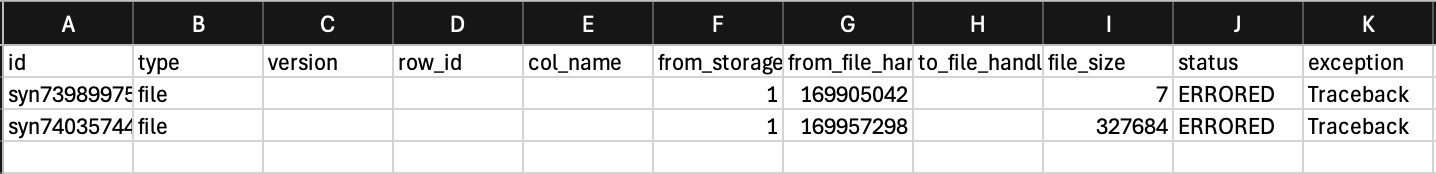
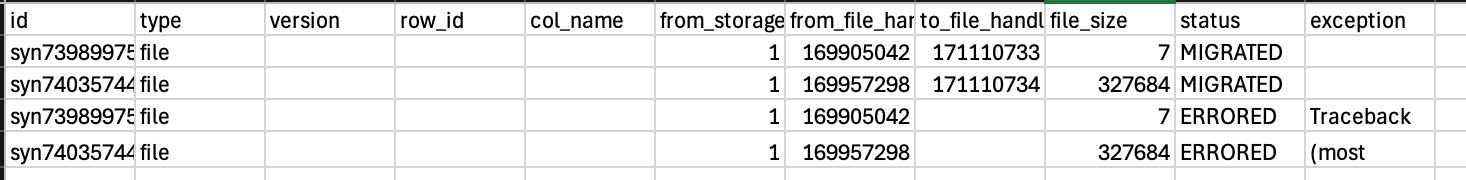
update docs

diff --git a/docs/tutorials/python/storage_location.md b/docs/tutorials/python/storage_location.md
@@ -20,7 +20,8 @@ In this tutorial you will:
 5. Create an External Object Store location and assign it to a folder
 6. Create a Proxy storage location, register a proxy file handle, and assign it to a folder
 7. Retrieve and inspect storage location settings
-8. Index and migrate files to a new storage location
+8. Update a storage location (create a replacement and reassign)
+9. Index and migrate files to a new storage location
 
 ## Prerequisites
 
@@ -46,7 +47,7 @@ Synapse supports several types of storage locations:
   an `owner.txt` file in the bucket to verify ownership.
 - **EXTERNAL_GOOGLE_CLOUD**: User-owned Google Cloud Storage bucket
 - **EXTERNAL_SFTP**: External SFTP server
-- **EXTERNAL_HTTPS**: External HTTPS server (uploading via client is not
+- **EXTERNAL_HTTPS**: External HTTPS server (uploading via client is **not**
   supported right now.)
 - **EXTERNAL_OBJECT_STORE**: An S3-compatible store (e.g., MinIO, OpenStack
   Swift) that Synapse does **not** access. The client transfers data directly
@@ -62,25 +63,26 @@ relevant to its type are populated:
 
 | Type | Key fields |
 |------|-----------|
-| `EXTERNAL_S3` | `bucket`, `base_key` |
+| `SYNAPSE_S3` | `base_key`, `sts_enabled` |
+| `EXTERNAL_S3` | `bucket`, `base_key`, `sts_enabled`, `endpoint_url` |
 | `EXTERNAL_GOOGLE_CLOUD` | `bucket`, `base_key` |
 | `EXTERNAL_SFTP` / `EXTERNAL_HTTPS` | `url`, `supports_subfolders` |
 | `EXTERNAL_OBJECT_STORE` | `bucket`, `endpoint_url` |
 | `PROXY` | `proxy_url`, `secret_key`, `benefactor_id` |
 
-Common attributes are:  concrete_type, storage_location_id, storage_type, upload_type, banner, description, etag, created_on, created_by
+Common attributes are:  `concrete_type`, `storage_location_id`, `storage_type`, `upload_type`, `banner`, `description`, `etag`, `created_on`, `created_by`
 
 ## Data Migration Between Storage Locations
 
-Files in a folder can be migrated from one storage location to another using
+Files in a project or folder can be migrated from one storage location to another using
 `index_files_for_migration` followed by `migrate_indexed_files`. Migration is
-currently supported only between S3 storage locations (both Synapse-managed
+currently supported **only** between S3 storage locations (both Synapse-managed
 `SYNAPSE_S3` and external `EXTERNAL_S3`) that reside in the **same AWS
 region**.
 
 Migration is a two-phase process:
 
-1. **Index** — scan the folder and record every file that needs to move into a
+1. **Index** — scan the project/folder and record every file that needs to move into a
    local SQLite database.
 2. **Migrate** — read the index database and move each file to the destination
    storage location.
@@ -91,7 +93,7 @@ to the move.
 ## 1. Set up and get project
 
 ```python
-{!docs/tutorials/python/tutorial_scripts/storage_location.py!lines=4-15}
+{!docs/tutorials/python/tutorial_scripts/storage_location.py!lines=4-18}
 ```
 
 ## 2. Create an external S3 storage location
@@ -101,7 +103,7 @@ properly configured with an `owner.txt` file. Synapse will transfer data
 directly to and from this bucket on the user's behalf.
 
 ```python
-{!docs/tutorials/python/tutorial_scripts/storage_location.py!lines=17-30}
+{!docs/tutorials/python/tutorial_scripts/storage_location.py!lines=20-33}
 ```
 
 <details class="example">
@@ -119,7 +121,7 @@ Create a folder and assign it the S3 storage location. All files uploaded into
 this folder will be stored in your S3 bucket.
 
 ```python
-{!docs/tutorials/python/tutorial_scripts/storage_location.py!lines=32-40}
+{!docs/tutorials/python/tutorial_scripts/storage_location.py!lines=39-51}
 ```
 
 ## 4. Create a Google Cloud Storage location
@@ -128,27 +130,25 @@ Create a storage location backed by a Google Cloud Storage bucket and assign it
 to a folder.
 
 ```python
-{!docs/tutorials/python/tutorial_scripts/storage_location.py!lines=42-62}
+{!docs/tutorials/python/tutorial_scripts/storage_location.py!lines=54-75}
 ```
 
 ## 5. Create an SFTP storage location
 
-SFTP storage locations point to an external SFTP server. Files are not
-transferred through Synapse — Synapse only stores metadata. Requires the
-`pysftp` package.
+SFTP storage locations point to an external SFTP server, where files are stored outside of Synapse. Synapse only manages the metadata and does not handle the file transfer itself. This setup requires the pysftp package, and files must be uploaded separately through the **client** once configured.
 
 ```python
-{!docs/tutorials/python/tutorial_scripts/storage_location.py!lines=64-87}
+{!docs/tutorials/python/tutorial_scripts/storage_location.py!lines=78-102}
 ```
 
 ## 6. Create an HTTPS storage location
 
 `EXTERNAL_HTTPS` uses the same underlying API type as `EXTERNAL_SFTP` but is
 used when the external server is accessed over HTTPS. Note that the Python
-client does NOT support uploading files to HTTPS storage locations directly yet.
+client does NOT support uploading files to HTTPS storage locations directly yet. To add files, use the Synapse REST API directly.
 
 ```python
-{!docs/tutorials/python/tutorial_scripts/storage_location.py!lines=89-111}
+{!docs/tutorials/python/tutorial_scripts/storage_location.py!lines=107-128}
 ```
 
 ## 7. Create an External Object Store storage location
@@ -158,21 +158,23 @@ accessed by Synapse. Unlike `EXTERNAL_S3`, the Python client transfers data
 directly to the object store using locally configured AWS credentials —
 Synapse is never involved in the data transfer, only in storing the metadata.
 
-You can add a profile to work with s3 in ~/.synapseConfig
+You can add a profile to work with s3 in `~/.synapseConfig`
 
 Add a section matching your endpoint+bucket URL:
-
+```
 [https://s3.us-east-1.amazonaws.com/test-external-object-store]
 profile_name = my-s3-profile
+```
+Then ensure my-s3-profile exists in `~/.aws/config` with valid keys:
 
-Then ensure my-s3-profile exists in ~/.aws/credentials with valid keys:
-
+```
 [my-s3-profile]
 aws_access_key_id = ...
 aws_secret_access_key = ...
+```
 
 ```python
-{!docs/tutorials/python/tutorial_scripts/storage_location.py!lines=113-139}
+{!docs/tutorials/python/tutorial_scripts/storage_location.py!lines=135-164}
 ```
 
 ## 8. Create a Proxy storage location
@@ -182,7 +184,7 @@ authentication and access to the underlying storage. Files are registered by
 creating a `ProxyFileHandle` via the REST API. Then, files can be uploaded via store function with data_file_handle_id.
 
 ```python
-{!docs/tutorials/python/tutorial_scripts/storage_location.py!lines=141-194}
+{!docs/tutorials/python/tutorial_scripts/storage_location.py!lines=168-226}
 ```
 
 ## 9. Retrieve and inspect storage location settings
@@ -191,7 +193,7 @@ You can retrieve a storage location by ID. Only fields relevant to the storage
 type are populated.
 
 ```python
-{!docs/tutorials/python/tutorial_scripts/storage_location.py!lines=196-204}
+{!docs/tutorials/python/tutorial_scripts/storage_location.py!lines=230-236}
 ```
 
 <details class="example">
@@ -205,23 +207,38 @@ Base key: synapse-data
 ```
 </details>
 
-## 10. Index and migrate files to a new storage location
+## 10. Update a storage location
+
+Storage locations are immutable — individual fields cannot be edited after
+creation. To "update" a storage location, create a new one with the desired
+settings and reassign it to the folder or project.
+
+```python
+{!docs/tutorials/python/tutorial_scripts/storage_location.py!lines=245-280}
+```
+
+## 11. Index and migrate files to a new storage location
 
 > **Warning:** This will migrate files associated with the folder. Run against a
 > test project first and review the index result before migrating production data.
 
-Phase 1 indexes all files that need to move into a local SQLite database. This will return a MigrationResults object. You can use the `as_csv` to check the details of indexing status.
+Phase 1. indexes all files that need to move into a local SQLite database. This will return a MigrationResults object. You can use the `as_csv` to check the details of indexing status.
 
 ```python
-{!docs/tutorials/python/tutorial_scripts/storage_location.py!lines=214-221}
+{!docs/tutorials/python/tutorial_scripts/storage_location.py!lines=288-298}
 ```
-Phase 2 reads that database and performs the actual migration. This will return a MigrationResults object. You can use the `as_csv` to check the details of migration status and errors if any.
+
+Index results can be checked in the index results csv
+![indexresults](./tutorial_screenshots/index_results.png)
+
+Phase 2. reads that database and performs the actual migration. This will return a MigrationResults object. You can use the `as_csv` to check the details of migration status and errors if any.
+
 ```python
-{!docs/tutorials/python/tutorial_scripts/storage_location.py!lines=224-234}
+{!docs/tutorials/python/tutorial_scripts/storage_location.py!lines=300-310}
 ```
+
 Currently, detailed Traceback is saved in the exception columns of the csv.
 ![migrationresults](./tutorial_screenshots/migration_results.png)
-
 
 ## Source code for this tutorial
 

diff --git a/docs/explanations/storage_location_architecture.md b/docs/explanations/storage_location_architecture.md
@@ -8,8 +8,6 @@ relationships, and data flows that enable flexible storage configuration.
 
 ## On This Page
 
-<div class="grid cards" markdown>
-
 -   **[Domain Model](#domain-model)**
 
     Core classes, enums, and their relationships
@@ -34,7 +32,6 @@ relationships, and data flows that enable flexible storage configuration.
 
     Two-phase file migration process
 
-</div>
 
 ---
 
@@ -181,7 +178,7 @@ classDiagram
 
 <br>
 
-## Storage Type Mapping (TODO: double checking if EXTERNAL_HTTP works as expected)
+## Storage Type Mapping
 
 Each `StorageLocationType` maps to a specific REST API `concreteType` and has a
 default `UploadType`. This mapping allows the system to parse
@@ -194,6 +191,7 @@ flowchart LR
         EXTERNAL_S3["EXTERNAL_S3"]
         EXTERNAL_GOOGLE_CLOUD["EXTERNAL_GOOGLE_CLOUD"]
         EXTERNAL_SFTP["EXTERNAL_SFTP"]
+        EXTERNAL_HTTPS["EXTERNAL_HTTPS"]
         EXTERNAL_OBJECT_STORE["EXTERNAL_OBJECT_STORE"]
         PROXY["PROXY"]
     end
@@ -212,12 +210,14 @@ flowchart LR
         GCS["GOOGLECLOUDSTORAGE"]
         SFTP["SFTP"]
         HTTPS["HTTPS"]
+        PROXYLOCAL["PROXYLOCAL"]
     end
 
     SYNAPSE_S3 --> S3SLS --> S3
     EXTERNAL_S3 --> ExtS3SLS --> S3
     EXTERNAL_GOOGLE_CLOUD --> ExtGCSSLS --> GCS
     EXTERNAL_SFTP --> ExtSLS --> SFTP
+    EXTERNAL_HTTPS --> ExtSLS --> HTTPS
     EXTERNAL_OBJECT_STORE --> ExtObjSLS --> S3
     PROXY --> ProxySLS --> HTTPS
 ```
@@ -244,11 +244,11 @@ Different storage types support different configuration attributes:
 | `stsEnabled` | boolean | ✓ | ✓ | — | — | — | — |
 | `bucket` | string | — | ✓ (required) | ✓ (required) | — | ✓ (required) | — |
 | `endpointUrl` | string | — | ✓ | ✓ (required) | — | — | — |
-| `url` | string | — | — | — | ✓ | — | — |
+| `url` | string | — | — | — | ✓ (required) | — | — |
 | `supportsSubfolders` | boolean | — | — | — | ✓ | — | — |
-| `proxyUrl` | string | — | — | — | — | — | ✓ |
-| `secretKey` | string | — | — | — | — | — | ✓ |
-| `benefactorId` | string | — | — | — | — | — | ✓ |
+| `proxyUrl` | string | — | — | — | — | — | ✓ (required) |
+| `secretKey` | string | — | — | — | — | — | ✓ (required) |
+| `benefactorId` | string | — | — | — | — | — | ✓ (required) |
 
 ## Summary by type
 
@@ -257,9 +257,9 @@ Different storage types support different configuration attributes:
 | **S3StorageLocationSetting** | Default Synapse storage on Amazon S3. | `baseKey`, `stsEnabled` |
 | **ExternalS3StorageLocationSetting** | External S3 bucket connected with Synapse (Synapse-accessed). | `bucket` (required), `baseKey`, `stsEnabled`, `endpointUrl` |
 | **ExternalObjectStorageLocationSetting** | S3-compatible object storage **not** accessed by Synapse. | `bucket` (required), `endpointUrl` (required) |
-| **ExternalStorageLocationSetting** | SFTP or HTTPS upload destination. | `url`, `supportsSubfolders` |
+| **ExternalStorageLocationSetting** | SFTP or HTTPS upload destination. | `url` (required), `supportsSubfolders` |
 | **ExternalGoogleCloudStorageLocationSetting** | External Google Cloud Storage bucket connected with Synapse. | `bucket` (required), `baseKey` |
-| **ProxyStorageLocationSettings** | HTTPS proxy for all upload/download operations. | `proxyUrl`, `secretKey`, `benefactorId` |
+| **ProxyStorageLocationSettings** | HTTPS proxy for all upload/download operations. | `proxyUrl` (required), `secretKey` (required), `benefactorId` (required) |
 
 
 <br>
@@ -274,7 +274,7 @@ flowchart TB
     Start -->|No| DEFAULT[Use default Synapse storage]
     Start -->|Yes| Q1{Want Synapse to<br/>manage storage?}
 
-    Q1 -->|Yes| SYNAPSE_S3[Use SYNAPSE_S3]
+    Q1 -->|Yes| DEFAULT[Use default Synapse storage]
     Q1 -->|No| Q2{What storage<br/>backend?}
 
     Q2 -->|AWS S3| Q3{Synapse accesses<br/>bucket directly?}
@@ -785,6 +785,7 @@ sequenceDiagram
             MigrateFn->>DB: Update row status to MIGRATED/ERRORED
         end
 
+    end
 
     MigrateFn-->>Entity: MigrationResult (migrated counts)
     deactivate MigrateFn
